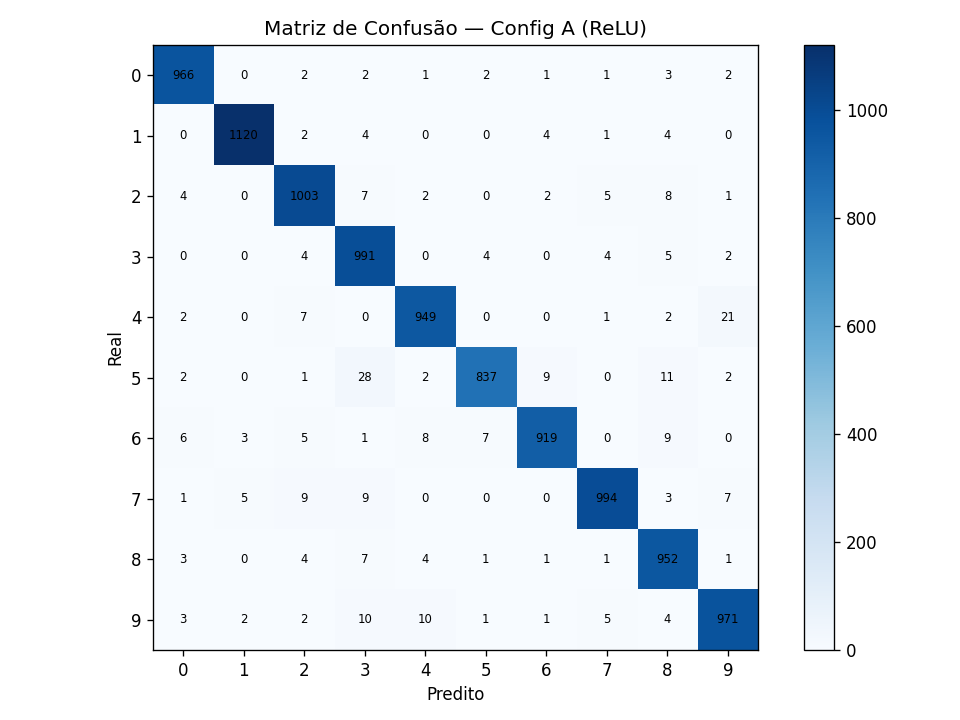
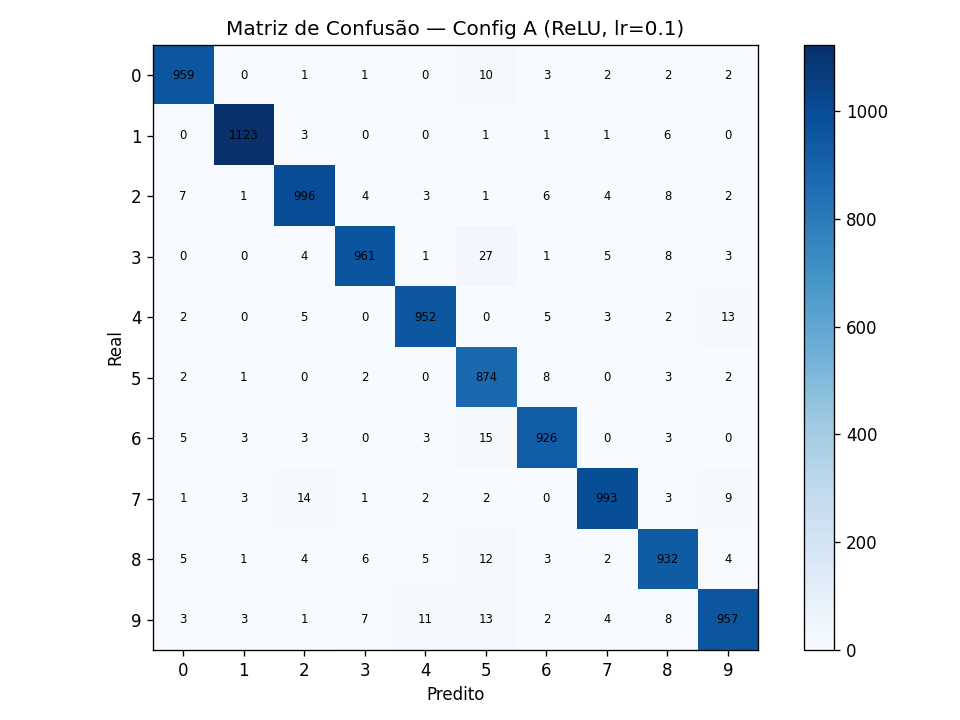
fix: ajusta os modelos, testa novas combinaçõesem busca de mais acurácia, conserta erros gerais e adiciona documentação

diff --git a/README.md b/README.md
@@ -1,0 +1,149 @@
+# MLP do Zero — MNIST
+
+Implementação de um Multi-Layer Perceptron (MLP) construído do zero, usando apenas NumPy, para classificação dos 10 dígitos manuscritos do dataset MNIST. 
+
+A rede é organizada em módulos separados (`MLP/activations.py`, `losses.py`, `optimizers.py`, `network.py`) e os experimentos ficam no notebook `notebook/experimentacao.ipynb`, onde são comparadas quatro configurações variando ativação e learning rate.
+
+---
+
+## Como Rodar
+
+```bash
+jupyter notebook notebook/experimentacao.ipynb
+```
+
+---
+
+## Arquiteturas testadas
+
+**Configuração A:**
+
+| Hiperparâmetro | Valor |
+|---|---|
+| Camadas ocultas | 2 (64 e 32 neurônios) |
+| Ativação | ReLU |
+| Inicialização de pesos | He (`√(2/n_in)`) |
+| Learning rate | 0.1 |
+| Batch size | 256 |
+| Épocas | 40 |
+
+**Configuração B:**
+
+| Hiperparâmetro | Valor |
+|---|---|
+| Camadas ocultas | 2 (64 e 32 neurônios) |
+| Ativação | **Sigmoid** |
+| Inicialização de pesos | He (`√(2/n_in)`) |
+| Learning rate | 0.1 |
+| Batch size | 256 |
+| Épocas | 40 |
+
+**Configuração de comparação (Config C):**
+
+| Hiperparâmetro | Valor |
+|---|---|
+| Camadas ocultas | 2 (64 e 32 neurônios) |
+| Ativação | ReLU |
+| Inicialização de pesos | He (`√(2/n_in)`) |
+| Learning rate | **0.01** |
+| Batch size | 256 |
+| Épocas | 40 |
+
+**Configuração de comparação (Config D):**
+
+| Hiperparâmetro | Valor |
+|---|---|
+| Camadas ocultas | 2 (64 e 32 neurônios) |
+| Ativação | ReLU |
+| Inicialização de pesos | He (`√(2/n_in)`) |
+| Learning rate | **0.5** |
+| Batch size | 256 |
+| Épocas | 40 |
+
+---
+
+## Decisões na Montagem da Rede
+
+**2 camadas ocultas (64 → 32):** A segunda camada nos permite que a rede observe padrões mais complexos e abstratos: a primeira detecta traços, a segunda os combina em formas.
+
+**Inicialização He:** ReLU zera metade dos neurônios em média, o que reduziria a variância do sinal pela metade a cada camada com inicialização padrão. He corrige isso escalando por `√(2/n_in)`, mantendo a variância estável em profundidade.
+
+**batch=256 e 40 épocas:** 256 é padrão confiável para SGD sem ajuste fino. 40 épocas porque a val_loss ainda caía levemente na metade do treino e estabilizou nas épocas finais, sem overfitting.
+
+**32k exemplos de treino:** O dataset completo tem 60k exemplos. Treinar em todos eles tornava cada rodada de experimentos muito lenta para iterar. Limitei a 32k selecionados aleatoriamente, o que manteve a acurácia em nível satisfatório e permitiu experimentar com mais configurações no mesmo tempo.
+
+---
+
+## Resultados
+
+### Acurácia Final no Conjunto de Teste
+
+| Config | Arquitetura | Ativação | lr | Acurácia (40 épocas) |
+|---|---|---|---|---|
+| A | [784, 64, 32, 10] | ReLU | 0.1 | **97.56%** |
+| B | [784, 64, 32, 10] | Sigmoid | 0.1 | 94.81% |
+| C | [784, 64, 32, 10] | ReLU | 0.01 | 94.69% |
+| D | [784, 64, 32, 10] | ReLU | 0.5 | 97.57% |
+
+### Curvas de Treinamento
+
+![Config A](resultados/config_a_curvas.png)
+
+![Config B](resultados/config_b_curvas.png)
+
+![Config C](resultados/config_c_curvas.png)
+
+![Config D](resultados/config_d_curvas.png)
+
+![Comparativo](resultados/comparativo_configs.png)
+
+#### Análise das curvas
+
+**Config A (ReLU, lr=0.1):** loss cai de forma suave e consistente ao longo das 40 épocas, sem oscilações relevantes. O gap entre treino e teste é pequeno e estável, indicando boa generalização sem overfitting significativo. A acurácia de validação sobe gradualmente e estabiliza perto das épocas finais.
+
+**Config B (Sigmoid, lr=0.1):** a loss começa muito mais alta (~0.8 vs ~0.4 da Config A na época 1) e cai mais lentamente.
+
+**Config C (ReLU, lr=0.01):** a curva de loss tem forma similar à da Config B em velocidade, mesmo usando ReLU. Isso confirma que o gargalo aqui é o learning rate baixo. A acurácia progride de forma linear e previsível, sem saltos. Precisaria de muitas mais épocas para atingir as métricas da Config A.
+
+**Config D (ReLU, lr=0.5):** a loss despenca nas primeiras 5 épocas mais rápido do que qualquer outra config, mas com oscilação visível. O gradiente "salta" ao redor do mínimo em vez de descer suavemente. Apesar de chegar perto da Config A em acurácia, o gap entre loss de treino e teste é ligeiramente maior nas épocas finais, sugerindo que o lr alto pode estar impedindo a rede de assentar num mínimo estável.
+
+### Por que escolhi a Config A como modelo final
+
+Apesar da Config D ter chegado a uma acurácia muito próxima da Config A, a Config A foi escolhida como modelo final por duas razões principais:
+
+1. **Curva mais estável:** a loss da Config A desce sem grandes oscilações. Isso indica que o modelo está aprendendo de forma consistente.
+
+2. **Interpretabilidade do treino:** com Config A é mais fácil diagnosticar problemas: se a loss parar de cair, sabemos que não é culpa do lr alto. Com Config D, qualquer anomalia na curva tem ambiguidade, por exemplo, ela tem um pico de loss grande em 15 épocas e logo depois já volta ao normal rapidamente.
+
+### Matriz de Confusão — Config A (melhor modelo)
+
+![Matriz de Confusão](resultados/matriz_confusao.png)
+
+A matriz revela padrões de erro consistentes com a estrutura visual dos dígitos:
+
+- **4 → 9** é o erro mais frequente: diferenciação depende de detalhes finos da caligrafia que o modelo trata como pixels planos.
+- **3 → 5** e **5 → 3** as duas curvas abertas à direita são muito parecidas. A diferença entre os números está no traço superior, que varia muito entre escritores.
+- **7 → 1** e **7 → 2** escritores que não cruzam o 7 facilitam a confusão com o 1 e o 2.
+- O dígito **8** tem erros bem diversos sendo confundido com 3, 5 e 9 dependendo de onde a caligrafia fecha (ou não) os dois laços.
+
+O fato de os erros seguirem exatamente essas similaridades visuais entre os números indica que o modelo aprendeu representações geometricamente coerentes.
+
+---
+
+## Decisões e Dificuldades
+
+### 1. Qual foi a decisão técnica mais difícil que tomei?
+
+A decisão mais difícil de escolher foi o número de neurônios em cada camada oculta. Optei por uma estrutura que vai reduzindo gradualmente para não comprimir toda a informação de uma vez. 64 neurônios na primeira camada é o suficiente para capturar padrões locais (traços, curvas) sem subir demais o custo de treino. 32 na segunda comprime mais, forçando a rede a guardar só o que é realmente relevante para distinguir os 10 dígitos. Cogitei usar 128 e 64, mas pelo MNIST ser grande o treino levaria mais do dobro do tempo, fazendo essa alternativa bem mais difícil de iterar. A decisão se baseou no equilíbrio entre possível melhora na acurácia e a viabilidade de experimentar várias vezes.
+
+### 2. O que tentei que não funcionou?
+
+Tentei alterar o learning rate com a ilusão de que diminuí-lo sempre melhoraria o resultado. No meu entendimento, um learning rate menor deixaria o modelo mais preciso. Porém, ao realizar os testes percebi que com lr=0.01 o modelo precisaria de muitas mais épocas para se estabilizar, tornando o treino inviável no meu computador dentro do tempo disponível.
+
+Além disso, no início tentei treinar com todos os 60k exemplos do MNIST, o que tornou cada rodada de experimentos muito lenta. Limitei a 32k exemplos selecionados aleatoriamente, o que manteve a acurácia satisfatória e permitiu iterar com muito mais agilidade.
+
+### 3. Se fosse refazer do zero, o que faria diferente?
+
+Se fosse refazer do zero, separaria o conjunto de validação do conjunto de teste desde o início. No projeto atual, o X_test (10k exemplos) é usado tanto para monitorar o treino época por época quanto para a avaliação final do modelo. O correto seria separar treino e validação, e manter os 10k de teste completamente intocados até a avaliação final. Assim a acurácia reportada seria uma estimativa honesta de como o modelo se comporta em dados que nunca influenciaram nenhuma decisão.
+
+